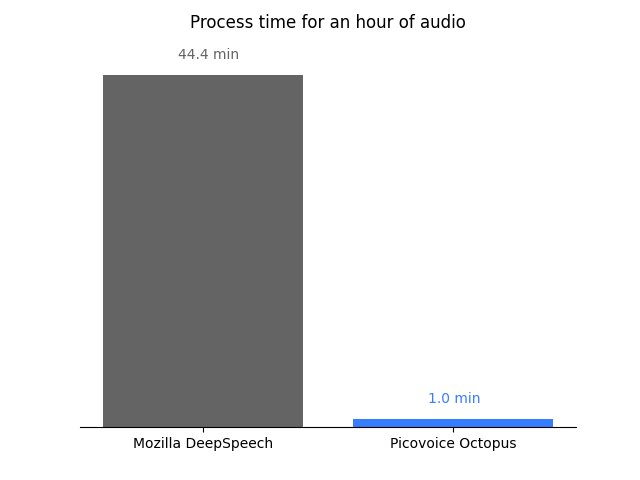
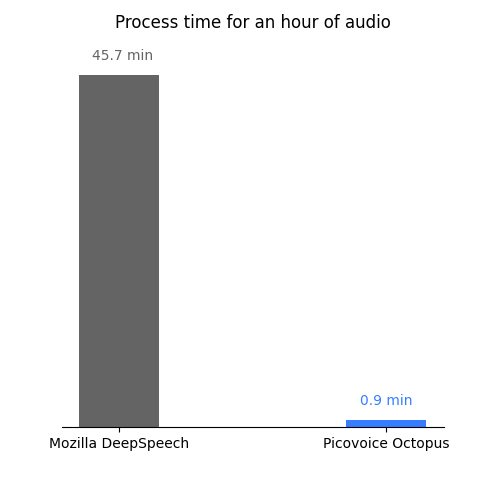
updated rtf fig

diff --git a/plot.py b/plot.py
@@ -61,7 +61,7 @@ def main():
     line_plot.set_title('False Alarm vs Missed Detection Rate\n')
     line_plot.legend(labels=engine_labels, frameon=False)
     line_plot.axvline(1.05, linewidth=0.5, color='r', ls='-.')
-    line_fig.savefig(os.path.join(os.path.dirname(__file__), 'resources', 'figs', 'false_alarm_vs_missed_detection.png'))
+    # line_fig.savefig(os.path.join(os.path.dirname(__file__), 'resources', 'figs', 'false_alarm_vs_missed_detection.png'))
 
     bar_plot.set_title('Ranges for the missed detection rates\n')
     bar_plot.set_yticks([])
@@ -85,7 +85,7 @@ def main():
         bar_plot.text(index - 0.1, min_missed_rate[index] - 4, '%.1f%%' % min_missed_rate[index],
                       color=colors_list[index])
 
-    bar_fig.savefig(os.path.join(os.path.dirname(__file__), 'resources', 'figs', 'missed_detection_comparison.png'))
+    # bar_fig.savefig(os.path.join(os.path.dirname(__file__), 'resources', 'figs', 'missed_detection_comparison.png'))
 
     rtf_result_path = os.path.join(os.path.dirname(__file__), 'resources', 'results', 'REAL_TIME_FACTOR.dat')
     if os.path.isfile(rtf_result_path):
@@ -102,7 +102,7 @@ def main():
         rtf_list = [element * 60 for element in results.values()]
         bar_plot_rtf.set_title('Process time for an hour of audio\n')
         bar_plot_rtf.set_yticks([])
-        bar_plot_rtf.bar(engine_labels, rtf_list, color=color)
+        bar_plot_rtf.bar(engine_labels, rtf_list, color=color, width=0.3)
         for i in range(len(rtf_list)):
             bar_plot_rtf.text(i - 0.1, rtf_list[i] + 2, '%.1f min' % rtf_list[i], color=color[i])
         bar_fig_rtf.savefig(os.path.join(os.path.dirname(__file__), 'resources', 'figs', 'realtime_factor_comparison.png'))

diff --git a/README.md b/README.md
@@ -107,17 +107,16 @@ python3 realtime_factor.py --dataset_folder {DATASET_FOLDER} --access_key {ACCES
 The benchmarking was performed on a Linux machine running Ubuntu 20.04 with 16GB of RAM and an Intel i7-10710U CPU running at 4.7 GHz.
 
 The figure below compares the upper and lower ranges of the missed detection rates for all engines.
-Octopus achieves the best performance by missing fewer occurrences of search phrases.
 
 ![](resources/figs/missed_detection_comparison.png)
 
-The figure below shows the false alarm per hour versus the missed detection rate for different confidence levels. `Mozilla DeepSpeech` does not provide the confidence level of the result in the same way that other engines deliver. Therefore, there is only one data point for it in the plot instead of a curve.
+The figure below shows the false alarm per hour versus the missed detection rate at different confidence levels. `Mozilla DeepSpeech` does not provide the confidence level of the result in the same way that other engines deliver. Therefore, there is only one data point for it in the plot instead of a curve.
 
-In addition, as shown by a red line at around 1 false alarms per hour, Octopus achieves 22% for the missed detection rate while Google speech-to-text achieves only 30%.
+In addition, as shown by a red line at around 1 false alarms per hour, Octopus achieves 22% for the missed detection rate while Google speech-to-text achieves 30%.
 
 ![](resources/figs/false_alarm_vs_missed_detection.png)
 
-One important factor about Speech-to-Index engines is their processing speed. The figure below depicts the time an engine requires for processing an hour of audio.
+The figure below depicts the time an engine requires for processing an hour of audio.
 
 ![](resources/figs/realtime_factor_comparison.png)
 
